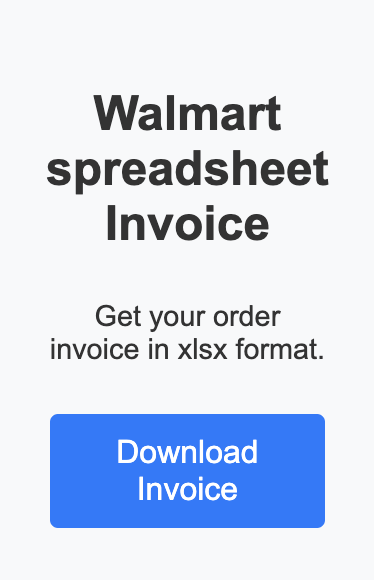
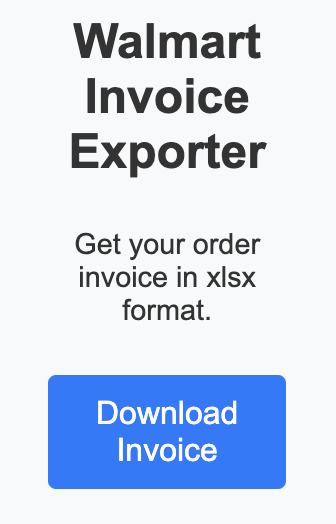
Using print-bill classes to parse the bill • Enhancement: Improved invoice parsing using print-bill classes for better order delivery status accuracy. • Feature: Added tip, tax, and delivery charges to the exported invoice. • Update: Separated product name and links into different columns in the Exc

Changed region(s): [[0.119, 0.1527, 0.8929, 0.6412], [0.119, 0.7023, 0.8929, 0.9466], [0.2083, 0.0305, 0.7738, 0.1221]]

diff --git a/content.js b/content.js
@@ -1,38 +1,55 @@
 chrome.runtime.onMessage.addListener(async function (request, sender, sendResponse) {
   if (request.method === "downloadXLSX") {
-    let productNames = document.querySelectorAll("div[data-testid='productName'] span"); // Select all product names
-    let productQuantities = document.querySelectorAll(".pt1.f7.f6-m.bill-item-quantity"); // Select all product quantities
-    let productPrices = document.querySelectorAll(".f5.b.black.tr span[aria-hidden='false']"); // Select all product prices
+    // Array to store all order items
+    let orderItems = [];
 
-    let unavailableProductsEl = document.querySelectorAll("img.o-30"); // Select all unavailable products element (products with an opacity of 30%)
-    let unavailableProductNames = []; // Array to store the names of unavailable products
-    unavailableProductsEl.forEach((img) => {
-      let productNameEl = img.closest("div.flex-m").querySelector("div[data-testid='productName'] span"); // Select the product name of the unavailable product
-      if (productNameEl) unavailableProductNames.push(productNameEl.innerText);
+    // Select all elements representing the print items list
+    let printItemsList = document.querySelectorAll(".dn.print-items-list");
+
+    // Loop through each item in the print items list
+    printItemsList.forEach((item) => {
+      let productName = item.querySelector(".w_U9_0.w_sD6D.w_QcqU")?.innerText;
+      let deliveryStatus = item.querySelector(".print-bill-type .w_U9_0.w_sD6D.w_QcqU")?.innerText || "Delivered";
+      let quantity = item.querySelector(".print-bill-qty .w_U9_0.w_sD6D.w_QcqU")?.innerText;
+      let price = item.querySelector(".print-bill-price .w_U9_0.w_sD6D.w_QcqU")?.innerText;
+
+      // Find the corresponding visible item to get the product link
+      let productLink = "N/A";
+      let visibleItems = document.querySelectorAll('[data-testid="itemtile-stack"] [data-testid="productName"] span');
+      for (let visibleItem of visibleItems) {
+        if (visibleItem?.innerText.trim() === productName.trim()) {
+          let linkElement = visibleItem.closest('[data-testid="itemtile-stack"]').querySelector('a[link-identifier="itemClick"]');
+          if (linkElement) {
+            productLink = linkElement.href;
+            break;
+          }
+        }
+      }
+
+      // Push the item details into the orderItems array
+      orderItems.push({
+        productName,
+        productLink,
+        deliveryStatus,
+        quantity,
+        price,
+      });
     });
 
-    // f7 f5-m gray print-item-title has the a tag for the product link
-
-    let productLinkEl = document.querySelectorAll(".f7.f5-m.gray.print-item-title a"); // Select all product links
-    let productLinks = []; // Array to store the product links
-    productLinkEl.forEach((link) => {
-      productLinks.push(link.href);
-    });
-
-    // Function to find the order number
+    // Function to find the order number based on a list of possible selectors
     function findOrderNumber() {
-      // Trying different selector
       const selectors = [
         ".f-subheadline-m.dark-gray-m.print-bill-bar-id",
         "[data-testid='orderInfoCard'] .dark-gray",
         ".print-bill-heading .dark-gray",
+        ".print-bill-bar-id",
       ];
 
       for (let selector of selectors) {
         const element = document.querySelector(selector);
         if (element) {
           const text = element.textContent;
-          const match = text.match(/Order#\s*(\d+-\d+)/);
+          const match = text.match(/Order#?\s*(\d+-\d+)/);
           if (match) {
             return match[1];
           }
@@ -43,114 +60,114 @@ chrome.runtime.onMessage.addListener(async function (request, sender, sendRespon
       return null;
     }
 
-    // Select the order number
+    // Extract additional order details
     let orderNumber = findOrderNumber();
+    let orderDate = document.querySelector(".print-bill-date")?.innerText;
+    orderDate = orderDate.replace("order", "").trim();
+    let orderTotal = document.querySelector(".bill-order-total-payment h2:last-child")?.innerText;
+    let deliveryCharges = document.querySelector(".print-fees")?.innerText || "$0.00";
+    let tax = document.querySelector(".print-bill-payment-section .pv3 .w_U9_0.w_U0S3.w_QcqU:last-child")?.innerText || "$0.00";
+    let tip =
+      document.querySelector(".print-bill-payment-section .flex.justify-between.pb2.pt3 .w_U9_0.w_U0S3.w_QcqU:last-child")?.innerText || "$0.00";
+
+    // Check if the order number was found
     if (orderNumber) {
       console.log("Order number:", orderNumber);
     } else {
       console.log("Could not find order number");
     }
-    // Select the order date
-    let orderDate = document
-      .querySelector(".w_kV33.w_LD4J.w_mvVb.f3.f-subheadline-m.di-m.dark-gray-m.print-bill-date.lh-copy")
-      .innerText.split(" ")
-      .slice(0, 3)
-      .join(" ");
-    // Select the order total
-    let orderTotal = document.querySelector(".bill-order-total-payment h2:last-child").innerText;
 
-    let data = [];
-
-    // Loop through the product names and add the product name, quantity, price, and delivery status to the data array
-    productNames.forEach((item, index) => {
-      let productName = item.innerText;
-      let productPrice = productPrices[index] ? productPrices[index].innerText : "N/A";
-      let deliveryStatus = unavailableProductNames.includes(productName) ? "Not Delivered" : "Delivered";
-      let productQuantity = productQuantities[index] ? productQuantities[index].innerText.split(" ")[1] : "N/A";
-      data.push([productName, productQuantity, productPrice, deliveryStatus]);
-    });
-
-    // Store order details in an object to pass to the convertToXlsx function
+    // Collect all order details
     let orderDetails = {
-      orderNumber: orderNumber,
-      orderDate: orderDate,
-      orderTotal: orderTotal,
+      orderNumber,
+      orderDate,
+      orderTotal,
+      deliveryCharges,
+      tax,
+      tip,
+      items: orderItems,
     };
 
-    // Call the convertToXlsx function and pass the data and orderNumber as arguments
-    convertToXlsx(data, orderDetails, ExcelJS, productLinks);
+    // Convert the order details to an XLSX file using the convertToXlsx function
+    convertToXlsx(orderDetails, ExcelJS);
 
-    sendResponse({ data: data });
+    // Send the response back to the caller with the order details
+    sendResponse({ data: orderDetails });
   }
 });
 
-async function convertToXlsx(data, orderDetails, ExcelJS, productLinks) {
-  // Create a new Excel workbook and worksheet using the ExcelJS library
+// Function to convert order details to an XLSX file
+async function convertToXlsx(orderDetails, ExcelJS) {
+  // Create a new Excel workbook and worksheet
   const workbook = new ExcelJS.Workbook();
   const worksheet = workbook.addWorksheet("Order Invoice");
 
-  let headerFontStyle = { size: 12, bold: true, name: "Times New Roman" }; // Set header row font style
-  let productFontStyle = { size: 12, name: "Times New Roman" }; // Set product row font style
+  // Define font styles for headers and product details
+  let headerFontStyle = { size: 12, bold: true, name: "Times New Roman" };
+  let productFontStyle = { size: 12, name: "Times New Roman" };
 
-  // Set header row and column width
+  // Set worksheet columns with headers, keys, and styles
   worksheet.columns = [
     { header: "Product Name", key: "productName", width: 60 },
-    { header: "Quantity", key: "quantity", width: 20, style: { numFmt: "#,##0", alignment: { horizontal: "left" } } },
-    { header: "Price", key: "price", width: 20, style: { numFmt: "$#,##0.00", alignment: { horizontal: "left" } } },
-    { header: "Delivery Status", key: "deliveryStatus", width: 20 },
+    { header: "Quantity", key: "quantity", width: 20, style: { numFmt: "#,##0", alignment: { horizontal: "center" } } },
+    { header: "Price", key: "price", width: 20, style: { numFmt: "$#,##0.00", alignment: { horizontal: "center" } } },
+    { header: "Delivery Status", key: "deliveryStatus", width: 30, style: { alignment: { horizontal: "center" } } },
+    { header: "Product Link", key: "productLink", width: 60, style: { font: { color: { argb: "FF0000FF" }, underline: true } } },
   ];
 
-  // Add data rows to the worksheet
-  data.forEach((row) => {
-    row[1] = Number(row[1].replace(/[^0-9.-]+/g, "")); // Remove non-numeric characters from the quantity
-    row[2] = Number(row[2].replace(/[^0-9.-]+/g, "")); // Remove non-numeric characters from the price
-    worksheet.addRow(row).font = { size: 12 };
+  // Add each order item as a row in the worksheet
+  orderDetails.items.forEach((item) => {
+    worksheet.addRow({
+      productName: item.productName,
+      productLink: { text: item.productName.length > 60 ? item.productName.substring(0, 60) + "..." : item.productName, hyperlink: item.productLink },
+      quantity: Number(item.quantity.replace(/[^0-9.-]+/g, "")),
+      price: Number(item.price.replace(/[^0-9.-]+/g, "")),
+      deliveryStatus: item.deliveryStatus,
+    }).font = productFontStyle;
   });
 
-  // add hyperlinks to the product names
-  productLinks.forEach((link, index) => {
-    worksheet.getCell(index + 2, 1).value = {
-      text: data[index][0],
-      hyperlink: link,
-    };
-    worksheet.getCell(index + 2, 1).font = { size: 12 };
-  });
-
-  // Set font style for all cells
-  worksheet.eachRow(function (row, rowNumber) {
-    row.eachCell(function (cell, colNumber) {
+  // Apply product font style to all cells
+  worksheet.eachRow((row) => {
+    row.eachCell((cell) => {
       cell.font = productFontStyle;
     });
+    const cell = row.getCell("productLink");
+    cell.font = { color: { argb: "FF0000FF" }, underline: true };
   });
 
-  // Set header row style
-  worksheet.getRow(1).eachCell(function (cell, colNumber) {
+  // Apply header font style to the first row (header row)
+  worksheet.getRow(1).eachCell((cell) => {
     cell.font = headerFontStyle;
   });
 
-  worksheet.addRow([]); // Add an empty row between the product details and order details for better readability
+  // Add an empty row between product details and order details for clarity
+  worksheet.addRow([]);
 
   // Add order details to the worksheet
-  let total = worksheet.addRow(["Order Total", Number(orderDetails.orderTotal.replace(/[^0-9.-]+/g, ""))]);
   worksheet.addRow(["Order Number", orderDetails.orderNumber]).font = { ...productFontStyle, bold: true };
   worksheet.addRow(["Order Date", orderDetails.orderDate]).font = { ...productFontStyle, bold: true };
+  let deliveryCharges = worksheet.addRow(["Delivery Charges", Number(orderDetails.deliveryCharges.replace(/[^0-9.-]+/g, ""))]);
+  let tax = worksheet.addRow(["Tax", Number(orderDetails.tax.replace(/[^0-9.-]+/g, ""))]);
+  let tip = worksheet.addRow(["Tip", Number(orderDetails.tip.replace(/[^0-9.-]+/g, ""))]);
+  let total = worksheet.addRow(["Order Total", Number(orderDetails.orderTotal.replace(/[^0-9.-]+/g, ""))]);
 
-  // Set font style for order total row and change order total to currency format using the numFmt property
-  total.eachCell(function (cell, colNumber) {
-    cell.font = { ...productFontStyle, bold: true };
-    cell.numFmt = "$#,##0.00";
+  const styleCells = [deliveryCharges, tax, tip, total];
+  styleCells.forEach((row) => {
+    row.getCell(2).numFmt = "$#,##0.00";
+    row.getCell(2).font = { ...productFontStyle, bold: true };
+    row.getCell(1).font = { ...productFontStyle, bold: true };
+    row.getCell(2).alignment = { horizontal: "center" };
   });
 
-  // Generate Excel file and trigger download in the browser
-  workbook.xlsx.writeBuffer().then(function (buffer) {
-    let blob = new Blob([buffer], { type: "application/vnd.openxmlformats-officedocument.spreadsheetml.sheet" });
-    let url = window.URL.createObjectURL(blob);
-    let anchor = document.createElement("a");
-    anchor.href = url;
-    anchor.download = `Order_${orderDetails.orderNumber}.xlsx`;
-    document.body.appendChild(anchor);
-    anchor.click();
-    document.body.removeChild(anchor);
-    window.URL.revokeObjectURL(url);
-  });
+  // Generate the Excel file and trigger download in the browser
+  const buffer = await workbook.xlsx.writeBuffer();
+  let blob = new Blob([buffer], { type: "application/vnd.openxmlformats-officedocument.spreadsheetml.sheet" });
+  let url = window.URL.createObjectURL(blob);
+  let anchor = document.createElement("a");
+  anchor.href = url;
+  anchor.download = `Order_${orderDetails.orderNumber}.xlsx`;
+  document.body.appendChild(anchor);
+  anchor.click();
+  document.body.removeChild(anchor);
+  window.URL.revokeObjectURL(url);
 }

diff --git a/README.md b/README.md
@@ -4,15 +4,29 @@ This is a Chrome extension that allows users to download their Walmart orders in
 
 <img src="./screenshot.png" alt="Screenshot of extension" height="200">
 
+## Table of Contents
+
+- [Walmart xlsx Invoice Chrome Extension](#walmart-xlsx-invoice-chrome-extension)
+  - [Table of Contents](#table-of-contents)
+  - [Features](#features)
+  - [Chrome Web Store](#chrome-web-store)
+  - [Manual Installation](#manual-installation)
+  - [Usage](#usage)
+  - [Contribution](#contribution)
+
 ## Features
 
-- Simple one-click download: Just click the extension icon when you're on the Walmart orders page, and your order details will be automatically downloaded as a xlsx file.
-- Secure: This extension doesn't require any additional permissions and runs only on Walmart's orders page.
+- **Simple one-click download**: Just click the extension icon when you're on the Walmart orders page, and your order details will be automatically downloaded as a xlsx file.
+- **Secure**: This extension doesn't require any additional permissions and runs only on Walmart's orders page.
 
-## Installation
+## Chrome Web Store
+
+You can also install the Walmart xlsx Invoice extension from the [Chrome Web Store](https://chromewebstore.google.com/detail/walmart-invoice-exporter/bndkihecbbkoligeekekdgommmdllfpe).
+
+## Manual Installation
 
 1. Download or clone this repository to your local machine.
-2. Open the Chrome browser and navigate to chrome://extensions.
+2. Open the Chrome browser and navigate to `chrome://extensions`.
 3. Enable Developer mode by ticking the checkbox in the upper-right corner.
 4. Click on the "Load unpacked" button and select the directory where you cloned or downloaded this repository (unzipped).
 5. The Walmart xlsx Invoice extension should now be visible in your extensions list and can be pinned to the toolbar for easy access.